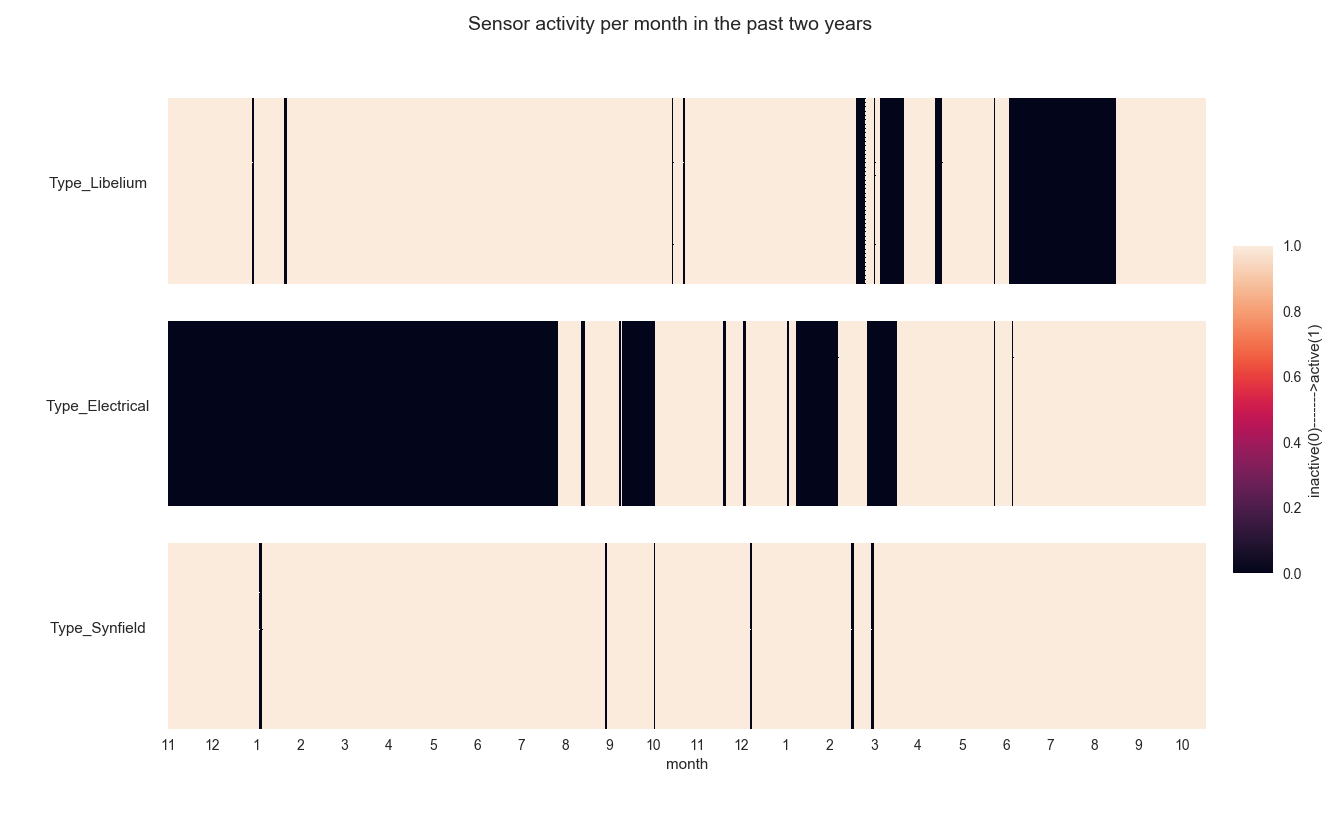
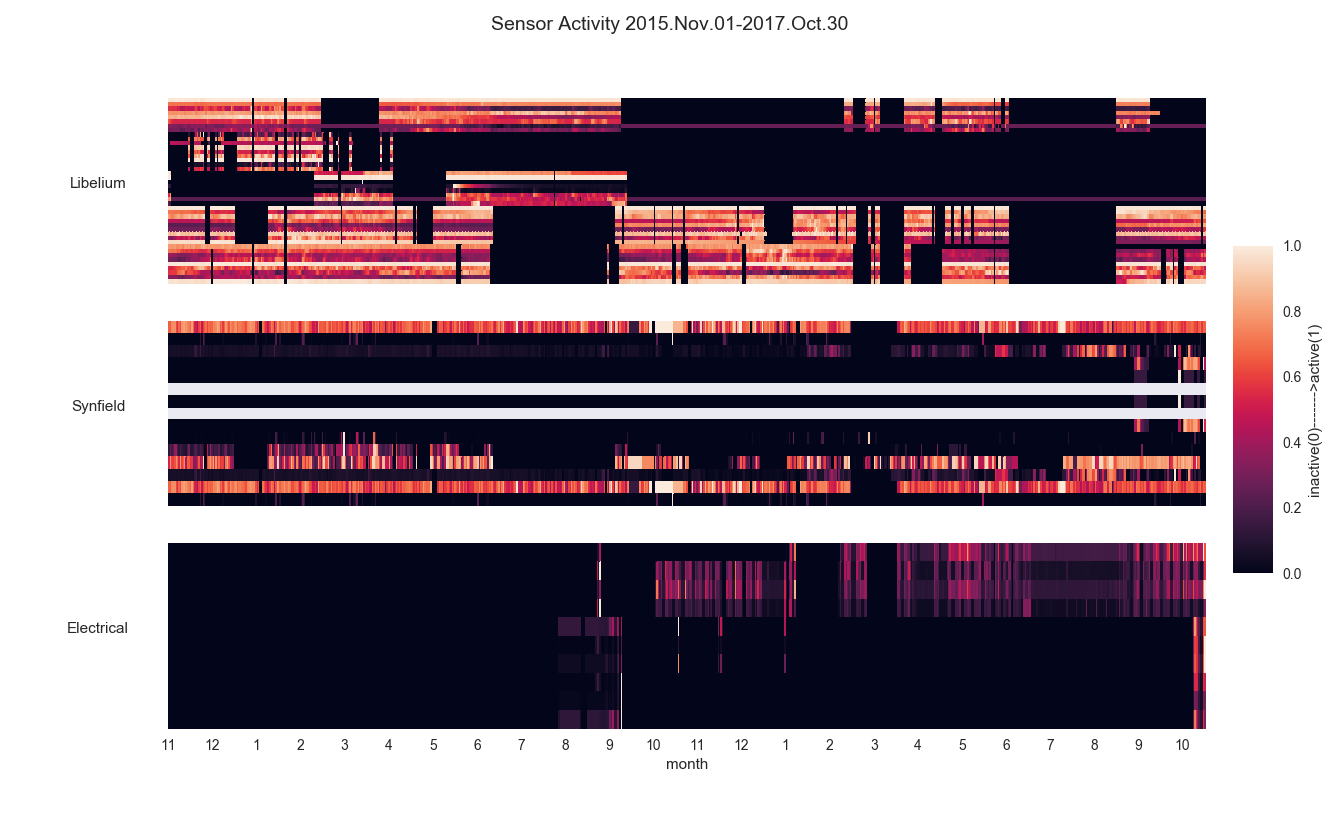
missing data ; outliers

diff --git a/src_python/sensor_temperature.py b/src_python/sensor_temperature.py
@@ -23,17 +23,75 @@ def outliers_Q1_Q3(df, head):
         lower = Q1 - (Q3 - Q1) * 3
         mean = df.mean()
     except TypeError:
-        print("here is the problem of Type Error from: ", head)
+        print("TypeError from: ", head)
     pd.options.mode.chained_assignment = None  # TODO is there a better solution ?
+
     outliers = 0
     if df[upper < df].size > 0:
+        outliers += df[upper < df].size
         df[upper < df] = df.quantile(1)
-        outliers +=1
+
     if df[lower > df].size > 0:
+        outliers += df[lower > df].size
         df[lower > df] = df.quantile(0)
-        outliers +=1
 
     return df, mean, outliers
+
+
+def outliers_sliding_window(df,window_number):
+    window = []
+    outlier = 0
+    max_range = 0
+    for i in range(df.size):
+        item = df[i]
+        if len(window) == window_number:
+            window.pop(0)
+        window.append(item)
+        previous = window[:-1]
+        if len(previous) == 0:
+            continue
+
+        # print(window)
+        average = mean(previous)
+        if len(previous) < window_number - 1:
+            if np.isnan(item):
+                outlier += 1
+                window[-1] = average
+                df[i] = average
+                # print(item, "change to mean", average)
+            continue
+
+        min = np.percentile(previous, 0)
+        Q1 = np.percentile(previous, 25)
+        Q3 = np.percentile(previous, 75)
+        max = np.percentile(previous, 100)
+        upper = Q3 + (Q3 - Q1) * 3
+        lower = Q1 - (Q3 - Q1) * 3
+        now_range = max - min
+        if max_range < now_range:
+            max_range = now_range
+
+        if np.isnan(item):
+            outlier += 1
+            window[-1] = average
+            df[i] = average
+            # print(item, "change to mean", average)
+            continue
+        if now_range == max_range:  # new peak comes out, OTHERWISE keep calm and carry on
+            if item < lower:
+                # print(item, "change to min", min)
+                window[-1] = min
+                df[i] = min
+                outlier += 1
+                continue
+            if item > upper:
+                # print(item, "change to max", max)
+                window[-1] = max
+                df[i] = max
+                outlier += 1
+                continue
+
+    return df, outlier, average
 
 
 def sun_rise_set(lat, lng, timestamp):
@@ -59,37 +117,64 @@ def sun_rise_set(lat, lng, timestamp):
     return sunrise, noon, sunset
 
 
-def clean_data(filename, sensor_type="temperature"):
-    df = pd.read_csv(filename, delimiter=";", index_col='timestamps', parse_dates=True)
-    header = list(df)
-    working_sensors = []
+def ETL(filename, statistic=False):
+    df = pd.read_csv(filename, delimiter=";", index_col='timestamps', parse_dates=True)  #
 
-    # clear the rows with all 0s due to power-off,also we might don't need it due to moving windows
-    # print(df[(df.T != 0).any()].shape)
+    if statistic:
+        df_norm = (df - df.min()) / (df.max() - df.min())
+        index_month = [int(str(i).split("-")[1]) for i in df.index.date]
+        df_norm.index = index_month
 
-    total_outliers = 0
-    for head in header:
-        df_col = df[head]
-        if (df_col[df_col != 0]).size == 0 or df_col.isnull().all():
-            df = df.drop(head, 1)
-            total_outliers += df_col.size
+    active_time = []  # some sensors are 0
+    dfT = df.T
+    for head in list(dfT):
+        df_col = dfT[head]
+        try:
+            if (df_col[df_col == 0]).size + df_col.isnull().sum() == df_col.size:
+                dfT[head] = dfT[head].replace(0, np.nan)
+                # print("inactive time",head,head.date(),"\n",head.time())
+            else:
+                active_time.append(head)
+        except ValueError:
             continue
+    df = dfT.T
+    # print("POWER OFF time", (1 - df[(df.T != 0).any()].shape[0] / df.shape[0]) * 100, "%") # could be easier ?
 
-        if "temperature" == sensor_type or "humidity" == sensor_type:
-            total_outliers += df_col[df_col == 0].size
-            df_col = df_col.replace(0, np.nan)
+    active_sensor = []  # sometimes is 0
+    for head in list(df):
+        df_col = df[head]
+        if (df_col[df_col == 0]).size + df_col.isnull().sum() == df_col.size:
+            df[head] = df[head].replace(0, np.nan)
+            # print("dead sensor ", head)
+        else:
+            active_sensor.append(head)
 
-        df_col, mean, outliers = outliers_Q1_Q3(df_col, head)
-        total_outliers += outliers
+    if statistic:
+        begin = df.index.get_loc(active_time[0])
+        print(filename, begin, active_time[0])
+        sum_nan = sum(df.iloc[begin:].isnull().sum().values)
+        power_on = df.iloc[begin:].shape
+        result = sum_nan / power_on[0] / power_on[1] * 100
+        miss_ratio = ("%.2f" % result, "%")
+        return df_norm, miss_ratio
+
+    # Here is the smooth out : delete outliers + rolling windows
+    sum_outliers = 0
+    for head in list(df):
+        df_col = df[head]
+        if df_col.isnull().sum() == df_col.size:
+            df = df.drop(head, 1)
+
+        df_col, outliers, average = outliers_sliding_window(df_col,window_number = 10)
+        sum_outliers += outliers
 
         df_col = df_col.rolling(window=36, center=False, min_periods=0).mean()
-        df_col = df_col.fillna(mean)
-        window_col = head + "_window36"
-        df[window_col] = df_col
-        working_sensors.append(head)
-
-    # df.to_csv(filename.split(".")[0] + "_output.csv", sep=";") # to save the after-ETL data
-    return df, working_sensors,total_outliers
+        df_col = df_col.fillna(average)
+        df[head + "_window36"] = df_col
+    result = sum_outliers/df.shape[0]/df.shape[1]*100
+    outlierS = ("%.2f" % result, "%")
+    # df.to_csv(filename.split(".")[0] + "_XXX.csv", sep=";")
+    return df, active_sensor, outlierS
 
 
 def coordinate_dicts():
@@ -103,39 +188,13 @@ def coordinate_dicts():
     return coordinates
 
 
-def count_missing(filename):
-    df = pd.read_csv(filename, delimiter=";", index_col='timestamps', parse_dates=True)
-
-    new_x = [int(str(i).split("-")[1]) for i in df.index.date]
-    df.index = new_x
-
-    print("POWER OFF time", (1 - df[(df.T != 0).any()].shape[0] / df.shape[0]) * 100, "%")
-    count = 0
-    dead = []
-    for head in list(df):
-        df_col = df[head]
-        if (df_col[df_col != 0]).size == 0 or df_col.isnull().all():
-            count += 1
-            dead.append(head)
-    # print(dead)
-    print("POWER OFF sensors",count / df.shape[1] * 100, "%")
-
-    # active :  1  inactive : 0 or NaN
-    df[(df.T != 0).any()] = 1
-    df[df != 0] = 1
-    return df, new_x
-
-
 if __name__ == "__main__":
 
-
-    # heatmap for STATISTIC of MISSING DATA
-    # for sites , active vs inactive for 2 years
+    # heatmap for STATISTIC of MISSING DATA  for 15 sites , active vs inactive for 2 years
     TwoYEARs_list = [
         # "Libelium.csv",
+        # "Synfield.csv",
         # "Electrical.csv",
-        # "Synfield.csv"
-
         "144024_2YEARS.csv",
         "144242_2YEARS.csv",
         "144243_2YEARS.csv",
@@ -154,29 +213,27 @@ if __name__ == "__main__":
     ]
     fig, axn = plt.subplots(len(TwoYEARs_list), 1, sharex=True)
     cbar_ax = fig.add_axes([.92, .3, .03, .4]) # [left, bottom, width, height]
-    fig.suptitle("Sensor activity per month from 2015Nov01-2017Oct30", fontsize=14)
+    fig.suptitle("Sensor Activity 2015.Nov.01-2017.Oct.30", fontsize=14)
     file_i = 0
     for i, ax in enumerate(axn.flat):
-        df, new_x = count_missing(TwoYEARs_list[file_i])
-        label = "Type_"+TwoYEARs_list[file_i].split("_")[0]
-        ax.locator_params(tight=False, nbins=4)
-        sns.heatmap(df.iloc[2:].T, ax=ax,
+        df_norm,miss_ratio = ETL(TwoYEARs_list[file_i],statistic=True)
+        print(miss_ratio)
+        label = ""+TwoYEARs_list[file_i].split(".")[0]
+        sns.heatmap(df_norm.iloc[2:].T, ax=ax,
                     xticklabels=31,yticklabels=False,
                     cbar=i == 0,cbar_ax=None if i else cbar_ax,
                     cbar_kws={'label': 'inactive(0)------->active(1)'})
         ax.set_ylabel(label, rotation=0,labelpad=50)
-        df,_,outliers = clean_data(TwoYEARs_list[file_i]) # FOR THIS , YOU CAN'T CLEAN TWICE IN THE FOLLOWING CODE
-        print(outliers * 100/df.shape[0]/df.shape[1],"%", "of outliers")
+        _,_,outliers = ETL(TwoYEARs_list[file_i])
+        print(TwoYEARs_list[file_i],outliers)
         file_i += 1
     ax.set_xlabel('month')
-    plt.show()
+
     # heatmap for STATISTIC of MISSING DATA END
 
 
-
-    """
-    df_indoor, working_indoor, outliers_indoor = clean_data("19640_Temp.csv")
-    df_outdoor, working_outdoor, outliers_outdoor = clean_data("19640_Temp_outdoor.csv")
+    df_indoor, working_indoor, outliers_indoor = ETL("19640_Temp.csv")
+    df_outdoor, working_outdoor, outliers_outdoor = ETL("19640_Temp_outdoor.csv")
     coef = []
     inter = []
     for outdoor in working_outdoor:
@@ -286,4 +343,4 @@ if __name__ == "__main__":
 
 
     plt.show()
-    """
+

diff --git a/README.md b/README.md
@@ -171,32 +171,32 @@ __Question 1 : what is the orientation for this room ?__
          - This table includes large range of data which are missing due to sensors no longer working or the whole sites are power off  
             during [2015-Nov-1,2017-Oct-30]
                         
-        |ID |	Name	| Missing Data | start time  | 
-        | ------------- | ------------- | -------------| -------------|
-        |144024	|Δημοτικό Σχολείο Λυγιάς|	30.48 %| before 2015-10-30	
-        |144242	|1ο Γυμνάσιο Ν. Φιλαδέλφειας	|2.94 %| before 2015-10-30
-        |144243	|Δημοτικό Σχολείο Μεγίστης	|24.49 %|before 2015-10-30
-        |155076	|Gramsci-Keynes School	|4.56 %	|  2016-08-04
-        |155077	|Sapienza	|58.22 %	| 2016-10-29
-        |155849	|6ο Δημοτικό Σχολείο Καισαριανής|	22.98 %|	before 2015-10-30
-        |155851	|5ο Δημοτικό Σχολείο Νέας Σμύρνης	|29.23 %|2016-08-02
-        |155865	|46ο Δημοτικό Σχολείο Πατρών	|38.72 %	|2016-09-22
-        |155877	|2ο Δημοτικό Σχολείο Παραλίας Πατρών|35.18 %	|2017-02-01
-        |157185	|Ελληνογερμανική Αγωγή	|3.31 %|2017-02-01
-        |159705	|Soderhamn	|0.00 %|2017-09-21
-        |19640	|Γυμνάσιο Πενταβρύσου Καστοριάς	|1.72 %	|before 2015-10-30
-        |27827	|8ο Γυμνάσιο Πατρών	|3.71 %	|before 2015-10-30
-        |28843	|2ο ΕΠΑΛ Λάρισας	|43.08 %	|before 2015-10-30
-        |28850	|55o Δημοτικό Σχολείο Αθηνών	|21.23 %|before 2015-10-30
+        |ID |	Name	| Inactive | start time  | outlier|
+        | ------------- | ------------- | -------------| -------------|-------------|
+        |144024	|Δημοτικό Σχολείο Λυγιάς|	30.48 %| before 2015-10-30| 16.49%
+        |144242	|1ο Γυμνάσιο Ν. Φιλαδέλφειας	|2.94 %| before 2015-10-30|10.90%
+        |144243	|Δημοτικό Σχολείο Μεγίστης	|24.49 %|before 2015-10-30|15.80%
+        |155076	|Gramsci-Keynes School	|4.56 %	|  2016-08-04|39.77%|39.77% 
+        |155077	|Sapienza	|58.22 %	| 2016-10-29|51.01%
+        |155849	|6ο Δημοτικό Σχολείο Καισαριανής|	22.98 %|	before 2015-10-30|16.76%
+        |155851	|5ο Δημοτικό Σχολείο Νέας Σμύρνης	|29.23 %|2016-08-02|39.25%
+        |155865	|46ο Δημοτικό Σχολείο Πατρών	|38.72 %	|2016-09-22|38.28%
+        |155877	|2ο Δημοτικό Σχολείο Παραλίας Πατρών|35.18 %	|2017-02-01|45.80%
+        |157185	|Ελληνογερμανική Αγωγή	|3.31 %|2017-02-01|40.50%
+        |159705	|Soderhamn	|0.00 %|2017-09-21|48.24%
+        |19640	|Γυμνάσιο Πενταβρύσου Καστοριάς	|1.72 %	|before 2015-10-30 | 20.34%
+        |27827	|8ο Γυμνάσιο Πατρών	|3.71 %	|before 2015-10-30|10.71%
+        |28843	|2ο ΕΠΑΛ Λάρισας	|43.08 %	|before 2015-10-30|22.17%
+        |28850	|55o Δημοτικό Σχολείο Αθηνών	|21.23 %|before 2015-10-30|22.36%
         
         ![active](./image/active_15sites.png?raw=true"")
          - In this table, statistic for sensors belong to three different vendors and different ways to  transfer data in the whole sensors
 
-         | Name	|All sensors "OFF" in 2 years |	Dead sensors| 
+         | Name	|Inactive |   outlier|
          | ------------- | ------------- | -------------| 
-         | Libelium for outdoor weather  | 15.163934426229508 % | 0.0 %| 
-         | Synfield for outdoor weather | 1.2295081967213073 %| 13.333333333333334 %| 
-         | Electrical Power Consumption |49.45355191256831 % |  0.0 %| 
+         | Libelium for outdoor weather  | 15.16% |  10.61%        
+         | Synfield for outdoor weather | 14.40 %| 9.28%| 
+         | Electrical Power Consumption |18.68 % |  33.40 %| 
      ![active](./image/active_3types.png?raw=true"")
     - There are some "0"s, could be the missing data or the true value. **TODO**  HOW TO ID THEM ?
     - Remove the outliers with Turkey's fences and replace with min/max value
